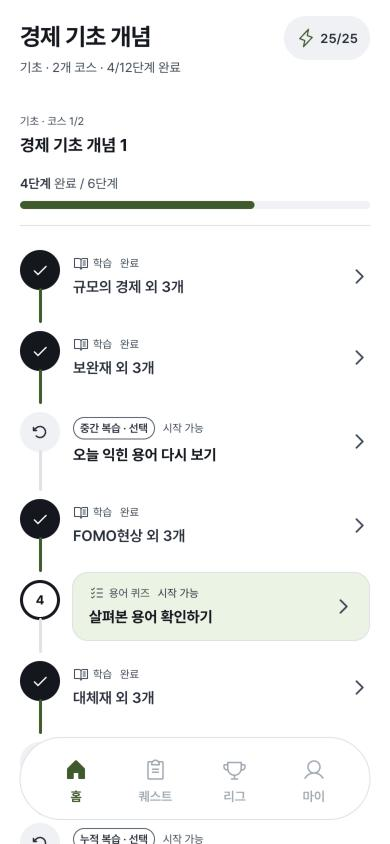
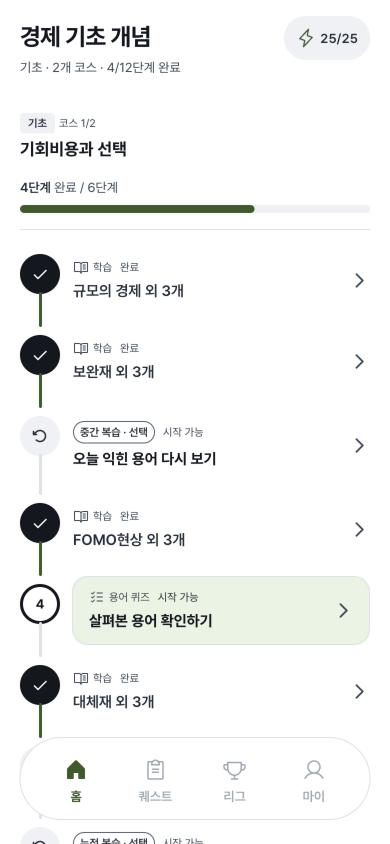
주제 화면 코스 제목도 지은 이름(COURSE_NAMES)으로, 난이도는 뱃지로. 레슨·퀴즈로 넘기는 코스 제목도 같은 이름

diff --git a/src/pages/CourseScreen.tsx b/src/pages/CourseScreen.tsx
@@ -25,6 +25,9 @@ const LEVEL_TABS = ['전체', '기초', '중급', '고급', '심화'];
 
 // 노드를 누르면 브랜드색 원이 화면 가득 퍼지고 로고를 보여준 뒤 다음 화면으로 넘어간다.
 // 오버레이를 body에 붙여 화면 전환 뒤에도 남게 한다. 동작 줄이기·WAAPI 미지원이면 바로 넘어간다.
+// 코스 표시 이름: 용어로 지은 이름(COURSE_NAMES), 없으면 원래 제목
+const courseName = (course: { id: string; title: string }) => COURSE_NAMES[course.id] ?? course.title;
+
 const expandFromNode = (nodeId: string, courseTitle: string) => new Promise<void>(resolve => {
   const el = document.querySelector<HTMLElement>(`[data-node-id="${nodeId}"]`);
   if (!el || typeof el.animate !== 'function' || window.matchMedia?.('(prefers-reduced-motion: reduce)').matches) { resolve(); return; }
@@ -371,7 +374,7 @@ const CourseScreen = () => {
             logClick('learning_continue', { course_id: focus.courseId, node_id: focus.id });
             // 다음이 퀴즈면 라벨대로 퀴즈를 바로 연다
             const sec = focus.type === 'quiz' ? sections.find(section => section.course.id === focus.courseId) : undefined;
-            if (sec) { void handleNodeTap(sec.nodes[focus.index], focus.index, sec.knownCount, sec.course.title); return; }
+            if (sec) { void handleNodeTap(sec.nodes[focus.index], focus.index, sec.knownCount, courseName(sec.course)); return; }
             setSearchParams({ topic: String(focusTopic.index) });
           }} className="course-home-primary">
             {focus.type === 'quiz' ? '용어 퀴즈 풀기' : knownIds.size > 0 ? '이어 배우기' : '첫 주제 시작하기'}
@@ -475,17 +478,17 @@ const CourseScreen = () => {
         return (
         <section key={sec.course.id} data-section-index={si} className="scroll-mt-4">
           <div className={`course-topic-summary sticky top-0 z-10 mx-5 mt-3 mb-4 overflow-hidden py-4 ${sec.course.id === focus?.courseId ? 'anim-fade' : ''}`}>
-            {/* 코스 제목이 화면 제목(주제명)과 같으면 반복하지 않고 진행 정도만 보여준다 */}
-            {sec.course.title !== activeTopic.category && <div className="relative mb-4 flex items-start gap-3">
+            {/* 코스 이름(COURSE_NAMES)이 주제명과 같으면 반복하지 않고 진행 정도만 보여준다 */}
+            {courseName(sec.course) !== activeTopic.category && <div className="relative mb-4 flex items-start gap-3">
               <div className="min-w-0">
-                <p className="text-2xs text-[var(--color-ink-3)]">{sec.course.level} · 코스 {partIndex + 1}/{activeTopic.parts.length}</p>
-                <h3 className="mt-1! text-base font-bold text-[var(--color-ink)] break-keep leading-snug">{sec.course.title}</h3>
+                <p className="course-topic-course-meta"><span className="course-level-badge">{sec.course.level}</span>코스 {partIndex + 1}/{activeTopic.parts.length}</p>
+                <h3 className="mt-1! text-base font-bold text-[var(--color-ink)] break-keep leading-snug">{courseName(sec.course)}</h3>
               </div>
             </div>}
             {/* 진행은 단계 수 하나로만 말한다(같은 값을 %로 한 번 더 쓰지 않는다) */}
             <p className="mb-2 text-xs text-[var(--color-ink-3)]"><span className="font-semibold text-[var(--color-ink-2)]">{stepsDone}단계</span> 완료 / {steps.length}단계</p>
             <div className="relative flex items-center">
-              <div role="progressbar" aria-label={`${sec.course.title} 진행률`} aria-valuemin={0} aria-valuemax={100} aria-valuenow={pct} className="h-2 flex-1 overflow-hidden rounded-full bg-[var(--color-button-secondary)]">
+              <div role="progressbar" aria-label={`${courseName(sec.course)} 진행률`} aria-valuemin={0} aria-valuemax={100} aria-valuenow={pct} className="h-2 flex-1 overflow-hidden rounded-full bg-[var(--color-button-secondary)]">
                 <div className={`h-full rounded-full bg-[var(--color-progress)] ${sec.course.id === focus?.courseId ? 'course-progress-reveal' : ''}`} style={{ width: `${pct}%` }} />
               </div>
             </div>
@@ -509,7 +512,7 @@ const CourseScreen = () => {
               <div key={node.id} className="course-step" data-step-state={done ? 'done' : locked ? 'locked' : isFocus ? 'current' : 'open'}>
                 <span className="course-step-marker" aria-hidden="true" data-step-kind={isReview ? 'review' : 'step'}>{done ? <Check size={16} /> : isReview ? <RotateCcw size={16} /> : stepNo}</span>
                 <button ref={isFocus ? focusRef : undefined} type="button" disabled={locked} data-own-sfx data-node-id={node.id}
-                  onClick={() => handleNodeTap(node, k, sec.knownCount, sec.course.title)}
+                  onClick={() => handleNodeTap(node, k, sec.knownCount, courseName(sec.course))}
                   className={`course-node-card flex w-full items-center gap-3 border py-3 text-left disabled:cursor-default ${nodeCardClass} ${newlyDone.has(node.id) ? 'anim-stamp' : ''}`}
                   style={{ borderRadius: 'var(--shape-card)', '--d': `${0.2 + (newlyDone.get(node.id) ?? 0) * 0.15}s` } as React.CSSProperties}>
                   <span className="min-w-0 flex-1">

diff --git a/src/index.css b/src/index.css
@@ -1219,6 +1219,7 @@ button.course-home-rail-card { width: 160px; flex-direction: column; align-items
 .course-home-rail-thumb { position: relative; display: block; }
 .course-home-rail-card[data-locked='true'] .topic-thumb { opacity: 0.45; filter: grayscale(1); }
 .course-home-rail-lock { position: absolute; top: 50%; left: 50%; display: flex; width: 40px; height: 40px; align-items: center; justify-content: center; border-radius: 50%; background: var(--color-card); color: var(--color-ink-2); transform: translate(-50%, -50%); }
+.course-topic-course-meta { display: flex; align-items: center; gap: var(--space-1); color: var(--color-ink-3); font-size: var(--font-size-caption); }
 .course-level-badge { padding: 2px var(--space-2); border-radius: var(--shape-sm); background: var(--color-surface); color: var(--color-ink-2); font-size: var(--font-size-caption); font-weight: var(--font-weight-semibold); }
 .course-home-section-desc { margin: 2px 0 0; color: var(--color-ink-3); font-size: var(--font-size-caption); }
 /* 주제 썸네일(홈 카드·뉴스). 사진이 없으면 회색 바탕 + 첫 글자 */
